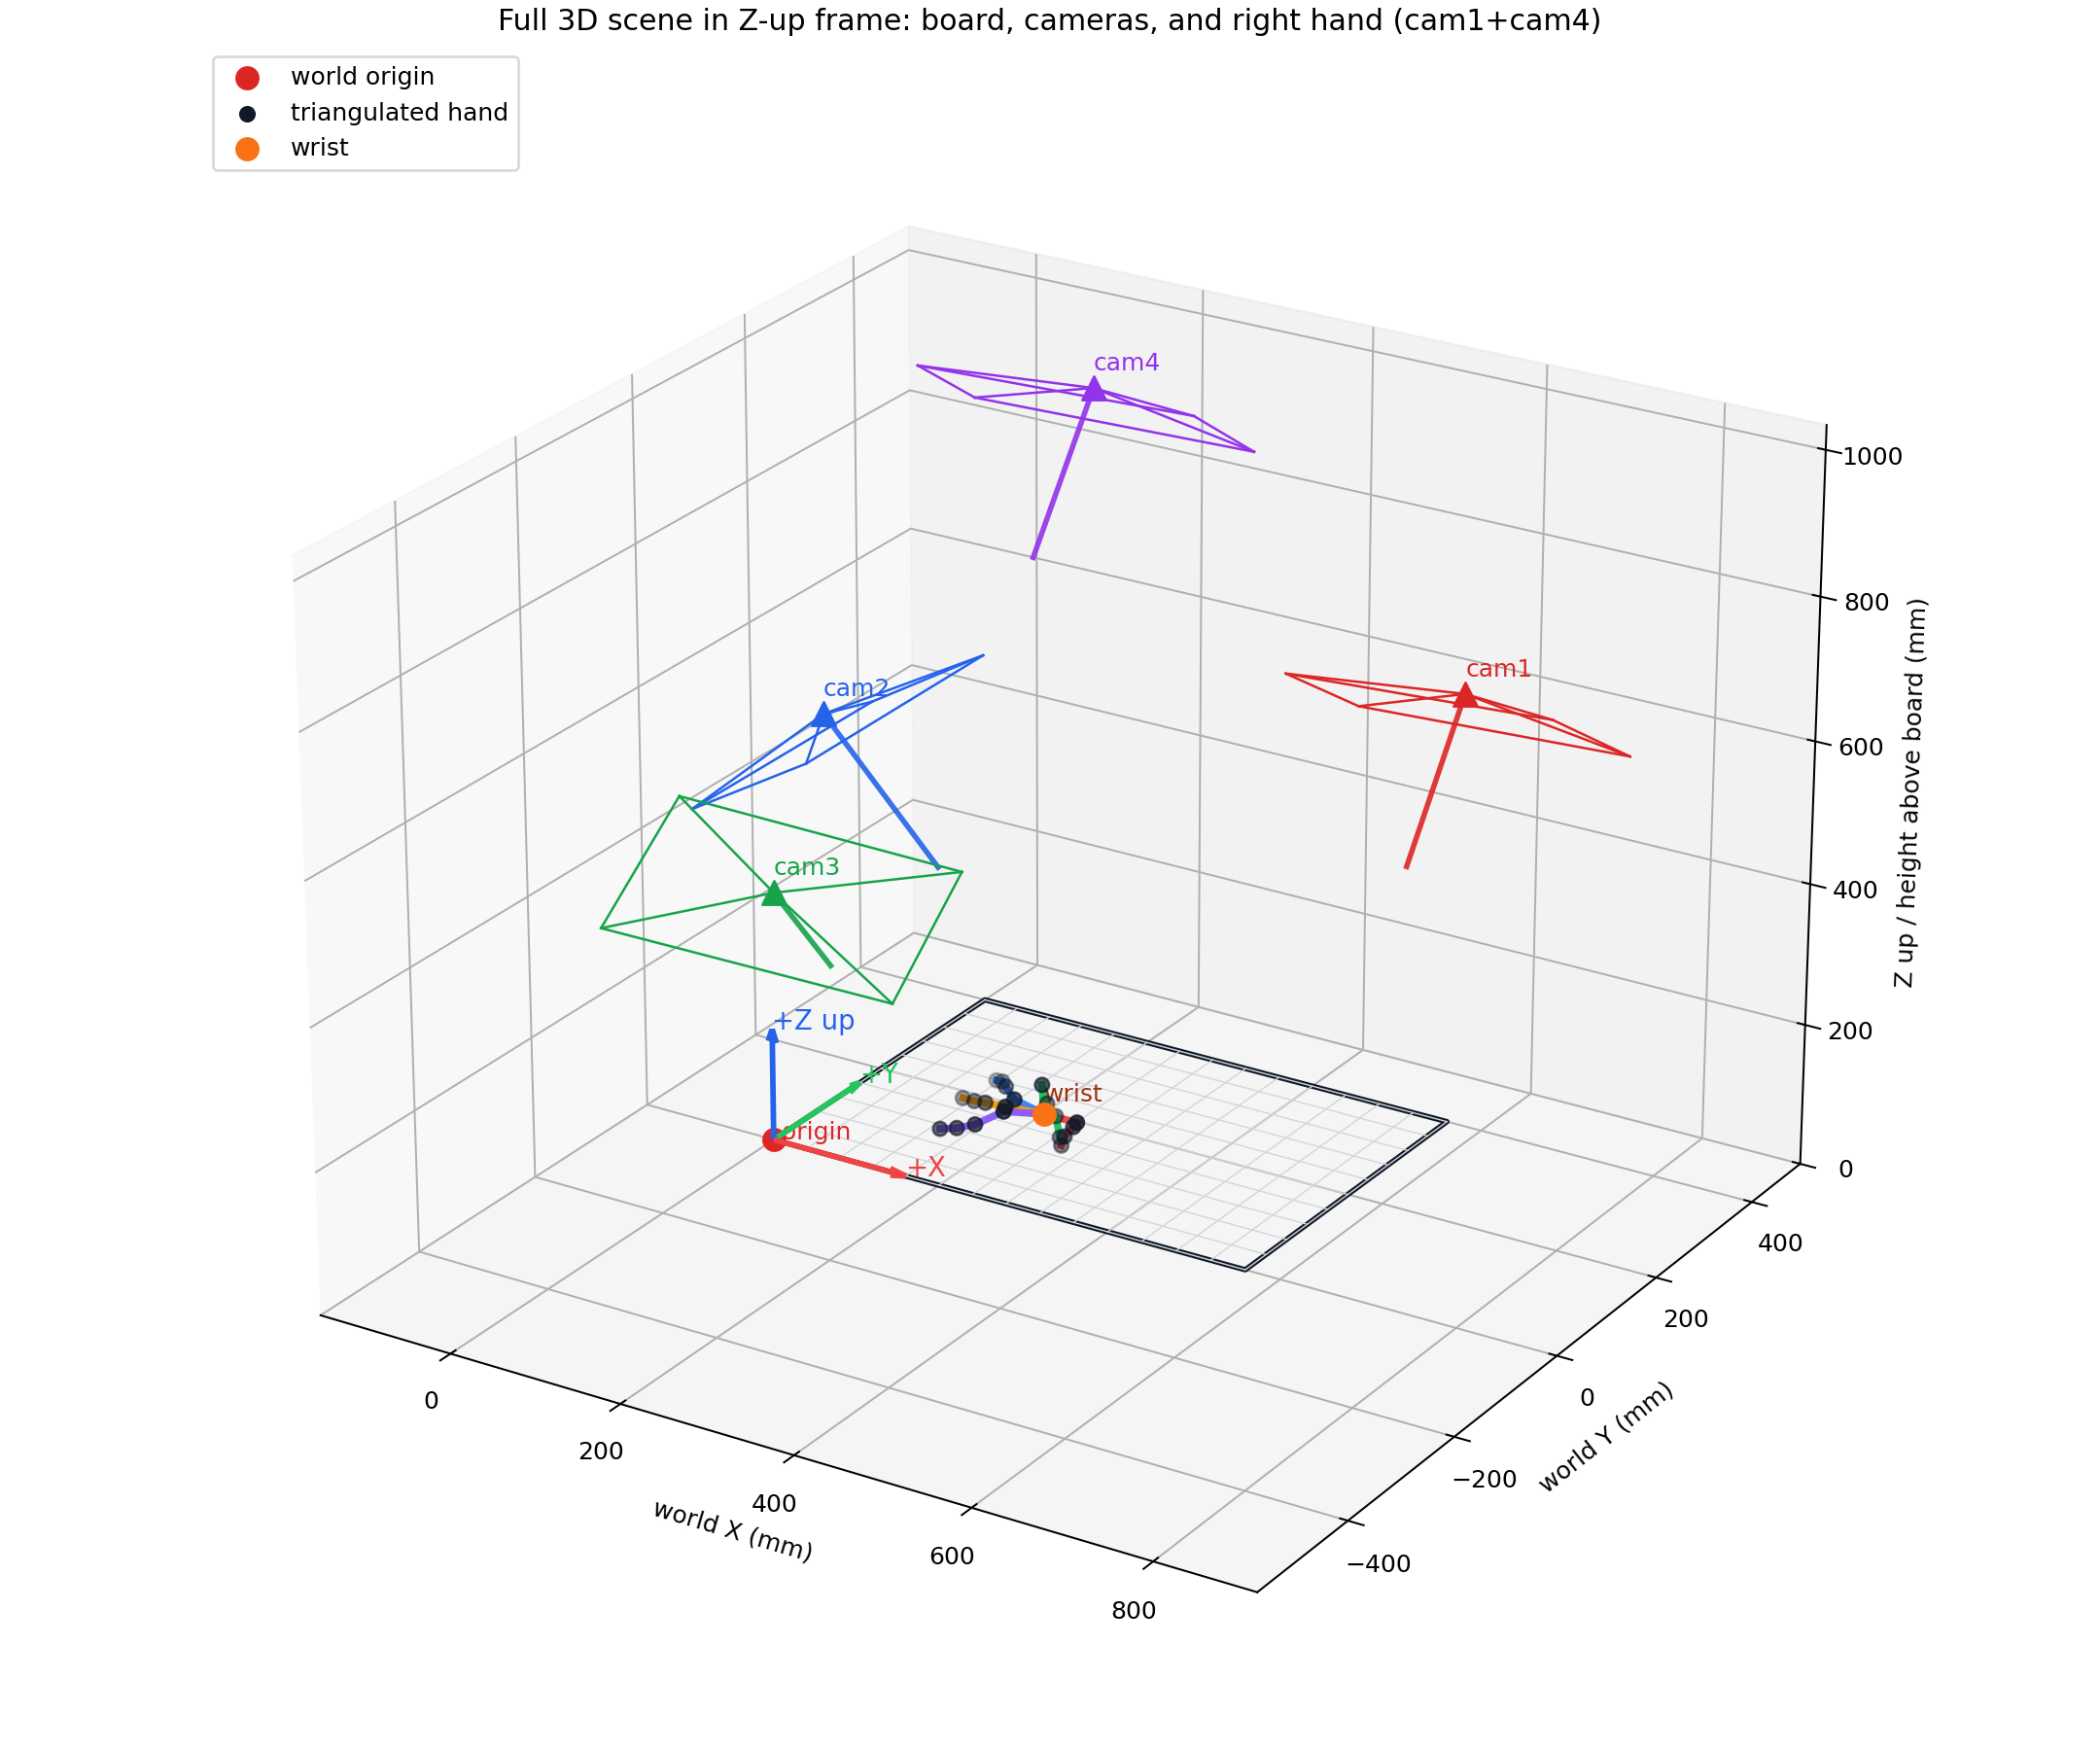
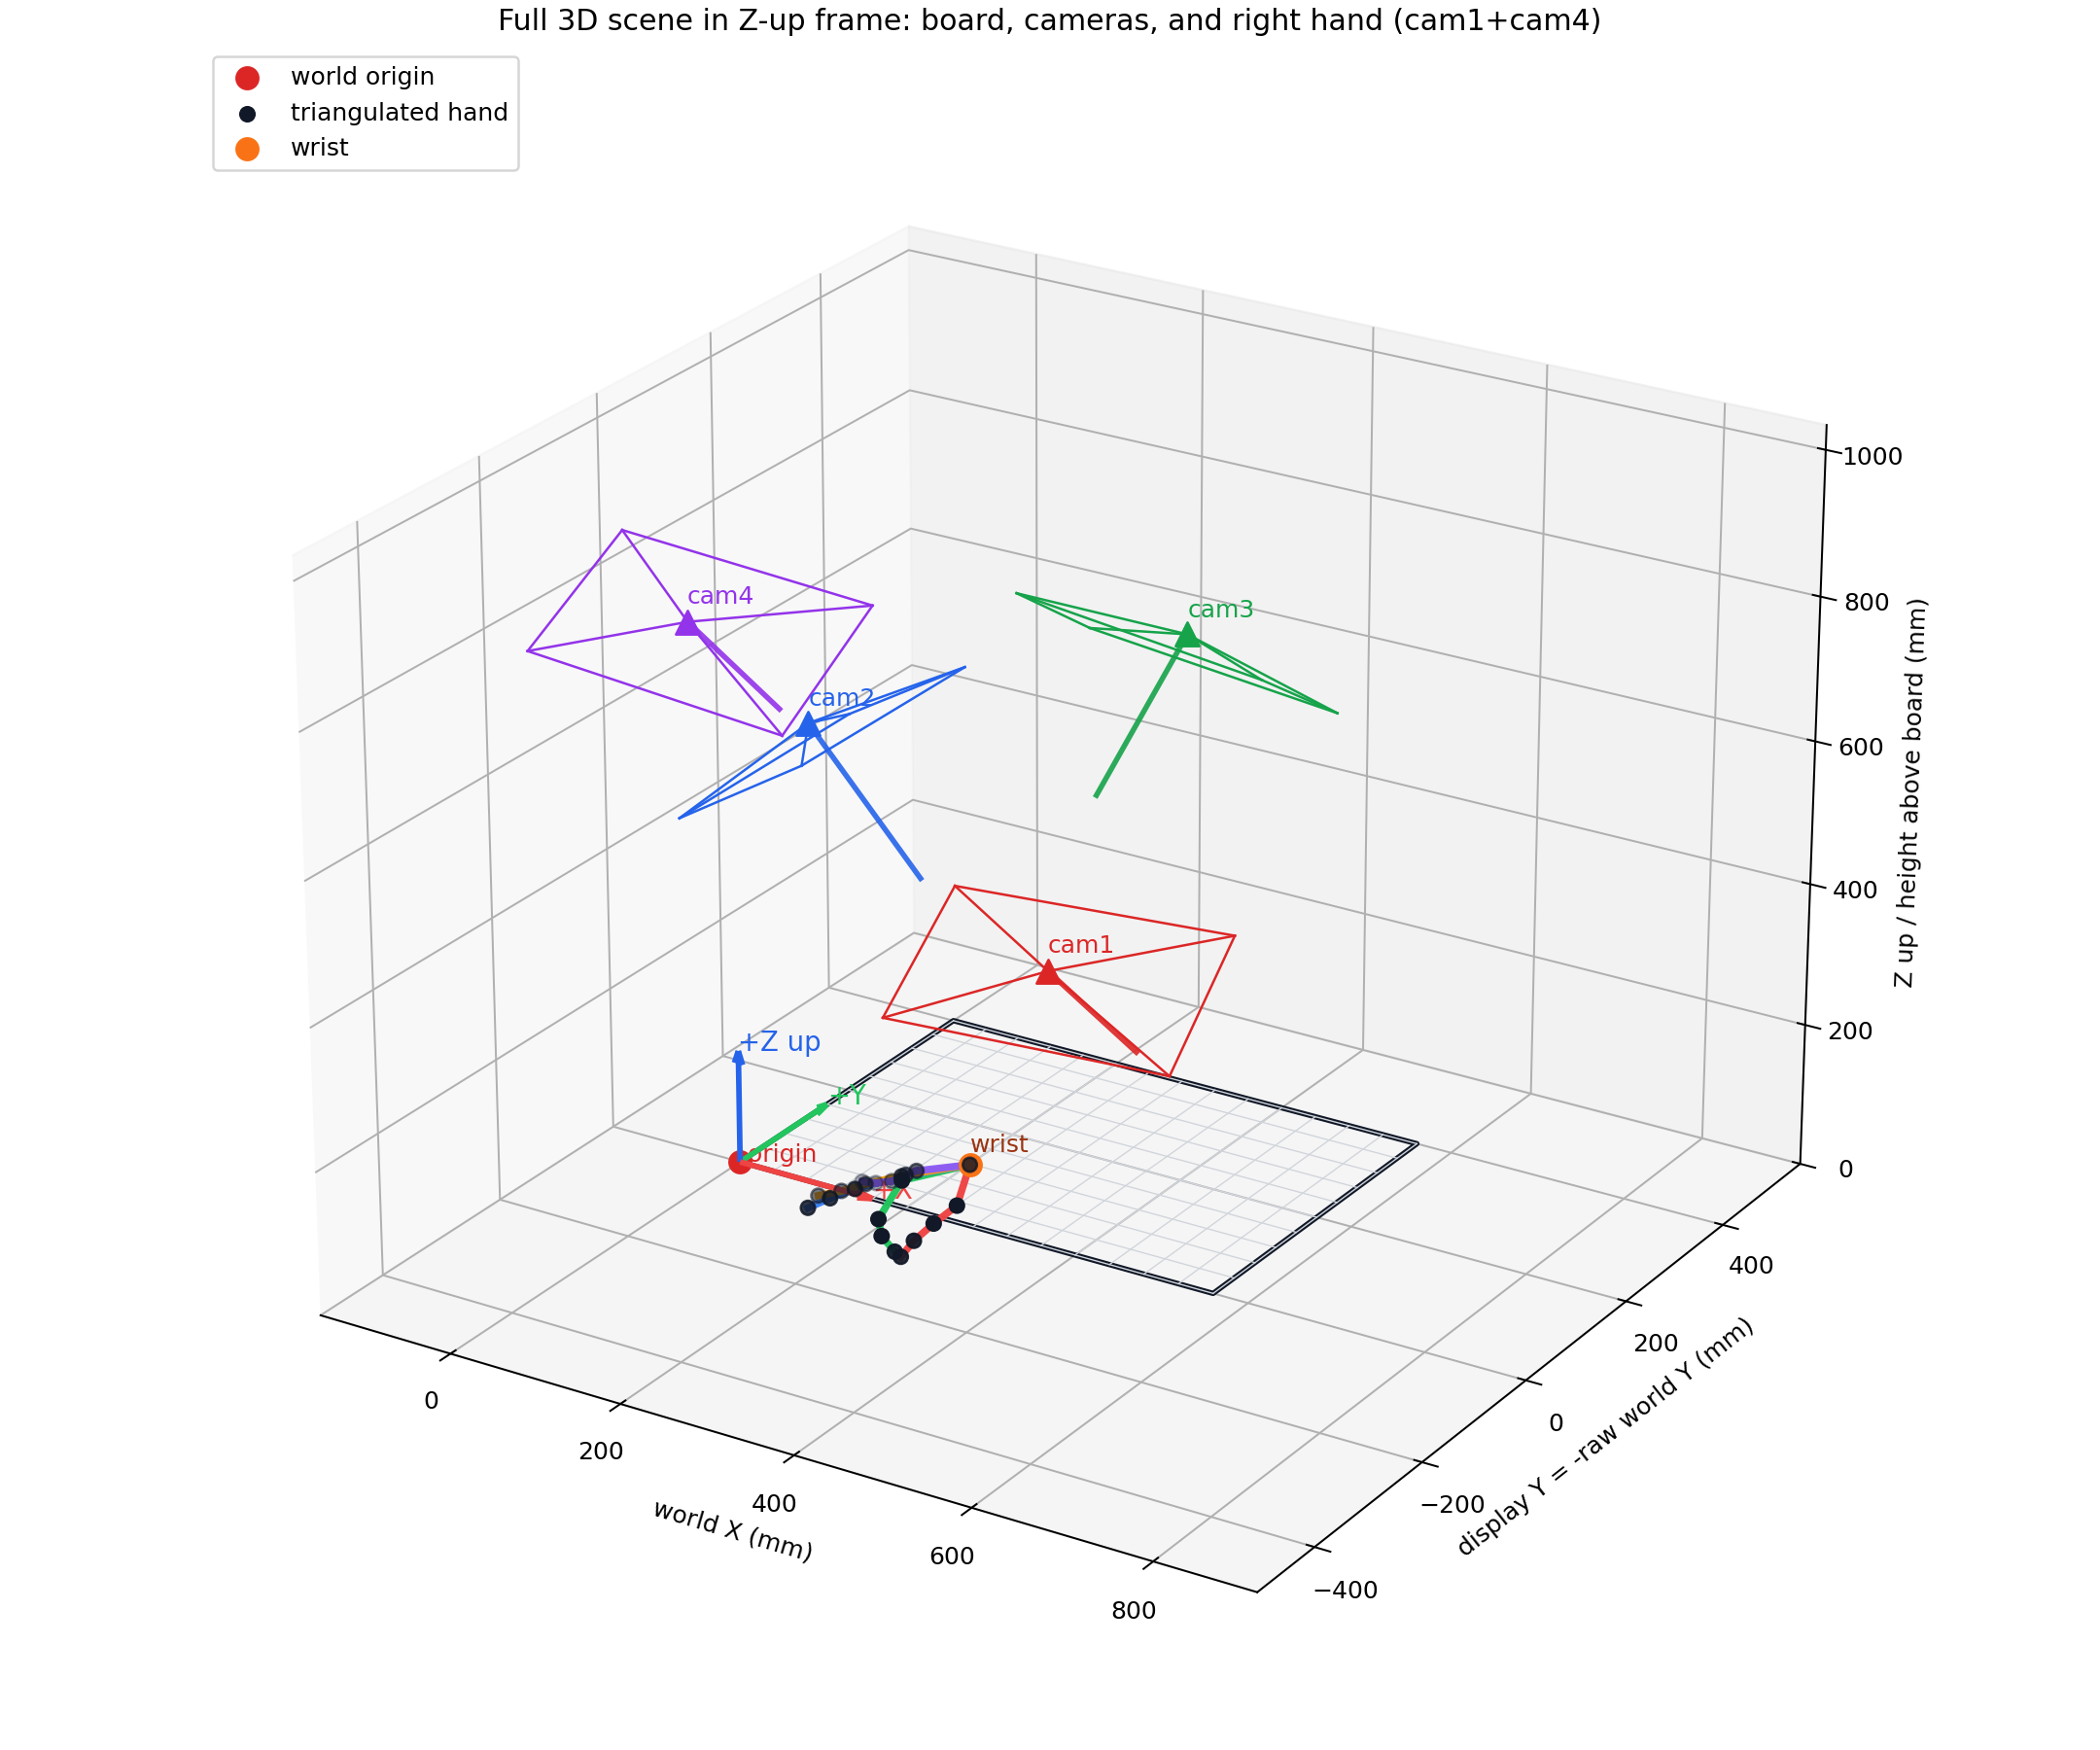
Fix v2 hand render handedness and add interactive view

diff --git a/get_GT_handpose/ego_exo_visualizations/v2/handpose_labeler/results/right_hand_session_129588_interactive_3d_handpose_cam1_cam4.html b/get_GT_handpose/ego_exo_visualizations/v2/handpose_labeler/results/right_hand_session_129588_interactive_3d_handpose_cam1_cam4.html
@@ -1,0 +1,7 @@
+<html>
+<head><meta charset="utf-8" /></head>
+<body>
+    <div>                        <script type="text/javascript">window.PlotlyConfig = {MathJaxConfig: 'local'};</script>
+        <script charset="utf-8" src="https://cdn.plot.ly/plotly-3.0.1.min.js"></script>                <div id="da35aae1-8420-4d84-b48f-a5b87742115a" class="plotly-graph-div" style="height:900px; width:1100px;"></div>            <script type="text/javascript">                window.PLOTLYENV=window.PLOTLYENV || {};                                if (document.getElementById("da35aae1-8420-4d84-b48f-a5b87742115a")) {                    Plotly.newPlot(                        "da35aae1-8420-4d84-b48f-a5b87742115a",                        [{"colorscale":[[0,"#e2e8f0"],[1,"#e2e8f0"]],"hoverinfo":"skip","name":"board plane","opacity":0.22,"showscale":false,"x":[[121.19595783471715,355.2213781802049],[121.19595783471715,355.2213781802049]],"y":[[-185.142943549738,-185.142943549738],[3.9478458955776645,3.9478458955776645]],"z":[[0,0],[0,0]],"type":"surface"},{"hoverinfo":"skip","line":{"color":"#ef4444","width":11},"mode":"lines","showlegend":false,"x":[300.94710695258016,313.2213781802049],"y":[-38.052154104422335,-81.13190953525444],"z":[115.60094707471461,84.72037399769849],"type":"scatter3d"},{"hoverinfo":"skip","line":{"color":"#94a3b8","width":5},"mode":"lines","opacity":0.18,"showlegend":false,"x":[300.94710695258016,313.2213781802049],"y":[-38.052154104422335,-81.13190953525444],"z":[1.0,1.0],"type":"scatter3d"},{"hoverinfo":"skip","line":{"color":"#ef4444","width":8},"mode":"lines","showlegend":false,"x":[313.2213781802049,297.51073444572216],"y":[-81.13190953525444,-99.29701683169559],"z":[84.72037399769849,63.78361243776665],"type":"scatter3d"},{"hoverinfo":"skip","line":{"color":"#94a3b8","width":5},"mode":"lines","opacity":0.18,"showlegend":false,"x":[313.2213781802049,297.51073444572216],"y":[-81.13190953525444,-99.29701683169559],"z":[1.0,1.0],"type":"scatter3d"},{"hoverinfo":"skip","line":{"color":"#ef4444","width":8},"mode":"lines","showlegend":false,"x":[297.51073444572216,280.74118641909666],"y":[-99.29701683169559,-109.54927521681418],"z":[63.78361243776665,39.25308029255003],"type":"scatter3d"},{"hoverinfo":"skip","line":{"color":"#94a3b8","width":5},"mode":"lines","opacity":0.18,"showlegend":false,"x":[297.51073444572216,280.74118641909666],"y":[-99.29701683169559,-109.54927521681418],"z":[1.0,1.0],"type":"scatter3d"},{"hoverinfo":"skip","line":{"color":"#ef4444","width":8},"mode":"lines","showlegend":false,"x":[280.74118641909666,271.08283453013644],"y":[-109.54927521681418,-118.6654131390931],"z":[39.25308029255003,18.176402890187983],"type":"scatter3d"},{"hoverinfo":"skip","line":{"color":"#94a3b8","width":5},"mode":"lines","opacity":0.18,"showlegend":false,"x":[280.74118641909666,271.08283453013644],"y":[-109.54927521681418,-118.6654131390931],"z":[1.0,1.0],"type":"scatter3d"},{"hoverinfo":"skip","line":{"color":"#22c55e","width":11},"mode":"lines","showlegend":false,"x":[300.94710695258016,260.4033519740082],"y":[-38.052154104422335,-99.24276384608757],"z":[115.60094707471461,112.36895491907715],"type":"scatter3d"},{"hoverinfo":"skip","line":{"color":"#94a3b8","width":5},"mode":"lines","opacity":0.18,"showlegend":false,"x":[300.94710695258016,260.4033519740082],"y":[-38.052154104422335,-99.24276384608757],"z":[1.0,1.0],"type":"scatter3d"},{"hoverinfo":"skip","line":{"color":"#22c55e","width":8},"mode":"lines","showlegend":false,"x":[260.4033519740082,249.70339148635526],"y":[-99.24276384608757,-125.72576204517513],"z":[112.36895491907715,68.19799565224298],"type":"scatter3d"},{"hoverinfo":"skip","line":{"color":"#94a3b8","width":5},"mode":"lines","opacity":0.18,"showlegend":false,"x":[260.4033519740082,249.70339148635526],"y":[-99.24276384608757,-125.72576204517513],"z":[1.0,1.0],"type":"scatter3d"},{"hoverinfo":"skip","line":{"color":"#22c55e","width":8},"mode":"lines","showlegend":false,"x":[249.70339148635526,256.8355189687907],"y":[-125.72576204517513,-131.0673534846652],"z":[68.19799565224298,49.439448661535266],"type":"scatter3d"},{"hoverinfo":"skip","line":{"color":"#94a3b8","width":5},"mode":"lines","opacity":0.18,"showlegend":false,"x":[249.70339148635526,256.8355189687907],"y":[-125.72576204517513,-131.0673534846652],"z":[1.0,1.0],"type":"scatter3d"},{"hoverinfo":"skip","line":{"color":"#22c55e","width":8},"mode":"lines","showlegend":false,"x":[256.8355189687907,266.7482477296426],"y":[-131.0673534846652,-122.82948345925182],"z":[49.439448661535266,26.197353890055997],"type":"scatter3d"},{"hoverinfo":"skip","line":{"color":"#94a3b8","width":5},"mode":"lines","opacity":0.18,"showlegend":false,"x":[256.8355189687907,266.7482477296426],"y":[-131.0673534846652,-122.82948345925182],"z":[1.0,1.0],"type":"scatter3d"},{"hoverinfo":"skip","line":{"color":"#3b82f6","width":11},"mode":"lines","showlegend":false,"x":[300.94710695258016,243.49171529307202],"y":[-38.052154104422335,-73.66265010175437],"z":[115.60094707471461,99.0864786297939],"type":"scatter3d"},{"hoverinfo":"skip","line":{"color":"#94a3b8","width":5},"mode":"lines","opacity":0.18,"showlegend":false,"x":[300.94710695258016,243.49171529307202],"y":[-38.052154104422335,-73.66265010175437],"z":[1.0,1.0],"type":"scatter3d"},{"hoverinfo":"skip","line":{"color":"#3b82f6","width":8},"mode":"lines","showlegend":false,"x":[243.49171529307202,211.08034152625717],"y":[-73.66265010175437,-108.72241432666938],"z":[99.0864786297939,88.99895542439282],"type":"scatter3d"},{"hoverinfo":"skip","line":{"color":"#94a3b8","width":5},"mode":"lines","opacity":0.18,"showlegend":false,"x":[243.49171529307202,211.08034152625717],"y":[-73.66265010175437,-108.72241432666938],"z":[1.0,1.0],"type":"scatter3d"},{"hoverinfo":"skip","line":{"color":"#3b82f6","width":8},"mode":"lines","showlegend":false,"x":[211.08034152625717,194.48051061058936],"y":[-108.72241432666938,-128.45386840711564],"z":[88.99895542439282,80.76018504330318],"type":"scatter3d"},{"hoverinfo":"skip","line":{"color":"#94a3b8","width":5},"mode":"lines","opacity":0.18,"showlegend":false,"x":[211.08034152625717,194.48051061058936],"y":[-108.72241432666938,-128.45386840711564],"z":[1.0,1.0],"type":"scatter3d"},{"hoverinfo":"skip","line":{"color":"#3b82f6","width":8},"mode":"lines","showlegend":false,"x":[194.48051061058936,177.86502948121267],"y":[-128.45386840711564,-143.142943549738],"z":[80.76018504330318,69.49270718688392],"type":"scatter3d"},{"hoverinfo":"skip","line":{"color":"#94a3b8","width":5},"mode":"lines","opacity":0.18,"showlegend":false,"x":[194.48051061058936,177.86502948121267],"y":[-128.45386840711564,-143.142943549738],"z":[1.0,1.0],"type":"scatter3d"},{"hoverinfo":"skip","line":{"color":"#f59e0b","width":11},"mode":"lines","showlegend":false,"x":[300.94710695258016,240.5771456898662],"y":[-38.052154104422335,-61.71693447464006],"z":[115.60094707471461,93.91471666663519],"type":"scatter3d"},{"hoverinfo":"skip","line":{"color":"#94a3b8","width":5},"mode":"lines","opacity":0.18,"showlegend":false,"x":[300.94710695258016,240.5771456898662],"y":[-38.052154104422335,-61.71693447464006],"z":[1.0,1.0],"type":"scatter3d"},{"hoverinfo":"skip","line":{"color":"#f59e0b","width":8},"mode":"lines","showlegend":false,"x":[240.5771456898662,204.71295310211144],"y":[-61.71693447464006,-80.08642525151306],"z":[93.91471666663519,78.44710917754217],"type":"scatter3d"},{"hoverinfo":"skip","line":{"color":"#94a3b8","width":5},"mode":"lines","opacity":0.18,"showlegend":false,"x":[240.5771456898662,204.71295310211144],"y":[-61.71693447464006,-80.08642525151306],"z":[1.0,1.0],"type":"scatter3d"},{"hoverinfo":"skip","line":{"color":"#f59e0b","width":8},"mode":"lines","showlegend":false,"x":[204.71295310211144,183.86016954127751],"y":[-80.08642525151306,-91.84281090980143],"z":[78.44710917754217,68.10447588610744],"type":"scatter3d"},{"hoverinfo":"skip","line":{"color":"#94a3b8","width":5},"mode":"lines","opacity":0.18,"showlegend":false,"x":[204.71295310211144,183.86016954127751],"y":[-80.08642525151306,-91.84281090980143],"z":[1.0,1.0],"type":"scatter3d"},{"hoverinfo":"skip","line":{"color":"#f59e0b","width":8},"mode":"lines","showlegend":false,"x":[183.86016954127751,163.19595783471715],"y":[-91.84281090980143,-102.47843330744826],"z":[68.10447588610744,60.2279348927584],"type":"scatter3d"},{"hoverinfo":"skip","line":{"color":"#94a3b8","width":5},"mode":"lines","opacity":0.18,"showlegend":false,"x":[183.86016954127751,163.19595783471715],"y":[-91.84281090980143,-102.47843330744826],"z":[1.0,1.0],"type":"scatter3d"},{"hoverinfo":"skip","line":{"color":"#8b5cf6","width":11},"mode":"lines","showlegend":false,"x":[300.94710695258016,245.65293696566258],"y":[-38.052154104422335,-50.000374664617006],"z":[115.60094707471461,94.89599520239433],"type":"scatter3d"},{"hoverinfo":"skip","line":{"color":"#94a3b8","width":5},"mode":"lines","opacity":0.18,"showlegend":false,"x":[300.94710695258016,245.65293696566258],"y":[-38.052154104422335,-50.000374664617006],"z":[1.0,1.0],"type":"scatter3d"},{"hoverinfo":"skip","line":{"color":"#8b5cf6","width":8},"mode":"lines","showlegend":false,"x":[245.65293696566258,213.81301152193296],"y":[-50.000374664617006,-46.37367315585217],"z":[94.89599520239433,67.81058660023483],"type":"scatter3d"},{"hoverinfo":"skip","line":{"color":"#94a3b8","width":5},"mode":"lines","opacity":0.18,"showlegend":false,"x":[245.65293696566258,213.81301152193296],"y":[-50.000374664617006,-46.37367315585217],"z":[1.0,1.0],"type":"scatter3d"},{"hoverinfo":"skip","line":{"color":"#8b5cf6","width":8},"mode":"lines","showlegend":false,"x":[213.81301152193296,193.2939932417069],"y":[-46.37367315585217,-44.120259936178236],"z":[67.81058660023483,57.095583124024195],"type":"scatter3d"},{"hoverinfo":"skip","line":{"color":"#94a3b8","width":5},"mode":"lines","opacity":0.18,"showlegend":false,"x":[213.81301152193296,193.2939932417069],"y":[-46.37367315585217,-44.120259936178236],"z":[1.0,1.0],"type":"scatter3d"},{"hoverinfo":"skip","line":{"color":"#8b5cf6","width":8},"mode":"lines","showlegend":false,"x":[193.2939932417069,175.11330597590063],"y":[-44.120259936178236,-41.15491321139711],"z":[57.095583124024195,51.530347164900085],"type":"scatter3d"},{"hoverinfo":"skip","line":{"color":"#94a3b8","width":5},"mode":"lines","opacity":0.18,"showlegend":false,"x":[193.2939932417069,175.11330597590063],"y":[-44.120259936178236,-41.15491321139711],"z":[1.0,1.0],"type":"scatter3d"},{"hoverinfo":"text","hovertext":["wrist","thumb_cmc","thumb_mcp","thumb_ip","thumb_tip","index_mcp","index_pip","index_dip","index_tip","middle_mcp","middle_pip","middle_dip","middle_tip","ring_mcp","ring_pip","ring_dip","ring_tip","pinky_mcp","pinky_pip","pinky_dip","pinky_tip"],"marker":{"color":["#f97316","#1f2937","#1f2937","#1f2937","#111827","#1f2937","#1f2937","#1f2937","#111827","#1f2937","#1f2937","#1f2937","#111827","#1f2937","#1f2937","#1f2937","#111827","#1f2937","#1f2937","#1f2937","#111827"],"line":{"color":"#0f172a","width":1},"size":[9,6,6,6,7,6,6,6,7,6,6,6,7,6,6,6,7,6,6,6,7]},"mode":"markers+text","name":"joints","text":["0","1","2","3","4","5","6","7","8","9","10","11","12","13","14","15","16","17","18","19","20"],"textposition":"top center","x":{"dtype":"f8","bdata":"VrKeWSfPckBzwNjDipNzQBTV4fcrmHJAJ2RK5tuLcUCm3kxKU\u002fFwQEcSMyF0RnBAyMXcLoI2b0BNYiNJXg1wQPGBnNL4q3BA\u002f9W1IbxvbkAheWQokmJqQJi7yVdgT2hATHxOUq47ZkAW4Dz6dxJuQNAkBoPQlmlArBlGgob7ZkAqcF1JRWZkQNk7ENzktG5AJT+9MAS6akAJzINkaCloQOid2jOg42VA"},"y":{"dtype":"f8","bdata":"TWxW\u002fKwGQ8Cy\u002fLA0cUhUwJ+f4lIC01jAGC49UydjW8Dzrv0glqpdwDrmXnGJz1jAIy2m4nJuX8AUvX7CJ2JgwM+DykEWtV7AeO7422hqUsA9zUwJPC5bwPqnCReGDmDAkOlZ\u002fpLkYcAd+kSCxNtOwAUzx\u002f2HBVTAyZMrnfD1VsCsM7ymnp5ZwHUj6kYMAEnAm+OfhdQvR8DJc3atZA9GwJ9VNDLUk0TA"},"z":{"dtype":"f8","bdata":"rCG46nXmXEA+QIqbGi5VQCp5kGlN5E9A2+Fd72SgQ0D7RmS9KC0yQJ\u002fIF\u002fWcF1xAkMj09asMUUBQyI7aP7hIQGWH18iFMjpAIrGp3YjFWEB0e7vi7j9WQFD5Kt+mMFRA64q5g4hfUUB5E8a3inpXQD\u002fSz2+dnFNAVYOgu68GUUDeAXf4LB1OQAXqQvxXuVdAZ6WepuDzUEDh3VsRPIxMQNdieGriw0lA"},"type":"scatter3d"},{"hoverinfo":"skip","line":{"color":"#ef4444","width":7},"mode":"lines+text","showlegend":false,"text":["","+X"],"textposition":"top center","x":[121.19595783471715,203.70993902473543],"y":[-185.142943549738,-185.142943549738],"z":[0.0,0.0],"type":"scatter3d"},{"hoverinfo":"skip","line":{"color":"#22c55e","width":7},"mode":"lines+text","showlegend":false,"text":["","+Y display"],"textposition":"top center","x":[121.19595783471715,121.19595783471715],"y":[-185.142943549738,-102.62896235971972],"z":[0.0,0.0],"type":"scatter3d"},{"hoverinfo":"skip","line":{"color":"#2563eb","width":7},"mode":"lines+text","showlegend":false,"text":["","+Z up"],"textposition":"top center","x":[121.19595783471715,121.19595783471715],"y":[-185.142943549738,-185.142943549738],"z":[0.0,82.51398119001827],"type":"scatter3d"}],                        {"template":{"data":{"histogram2dcontour":[{"type":"histogram2dcontour","colorbar":{"outlinewidth":0,"ticks":""},"colorscale":[[0.0,"#0d0887"],[0.1111111111111111,"#46039f"],[0.2222222222222222,"#7201a8"],[0.3333333333333333,"#9c179e"],[0.4444444444444444,"#bd3786"],[0.5555555555555556,"#d8576b"],[0.6666666666666666,"#ed7953"],[0.7777777777777778,"#fb9f3a"],[0.8888888888888888,"#fdca26"],[1.0,"#f0f921"]]}],"choropleth":[{"type":"choropleth","colorbar":{"outlinewidth":0,"ticks":""}}],"histogram2d":[{"type":"histogram2d","colorbar":{"outlinewidth":0,"ticks":""},"colorscale":[[0.0,"#0d0887"],[0.1111111111111111,"#46039f"],[0.2222222222222222,"#7201a8"],[0.3333333333333333,"#9c179e"],[0.4444444444444444,"#bd3786"],[0.5555555555555556,"#d8576b"],[0.6666666666666666,"#ed7953"],[0.7777777777777778,"#fb9f3a"],[0.8888888888888888,"#fdca26"],[1.0,"#f0f921"]]}],"heatmap":[{"type":"heatmap","colorbar":{"outlinewidth":0,"ticks":""},"colorscale":[[0.0,"#0d0887"],[0.1111111111111111,"#46039f"],[0.2222222222222222,"#7201a8"],[0.3333333333333333,"#9c179e"],[0.4444444444444444,"#bd3786"],[0.5555555555555556,"#d8576b"],[0.6666666666666666,"#ed7953"],[0.7777777777777778,"#fb9f3a"],[0.8888888888888888,"#fdca26"],[1.0,"#f0f921"]]}],"contourcarpet":[{"type":"contourcarpet","colorbar":{"outlinewidth":0,"ticks":""}}],"contour":[{"type":"contour","colorbar":{"outlinewidth":0,"ticks":""},"colorscale":[[0.0,"#0d0887"],[0.1111111111111111,"#46039f"],[0.2222222222222222,"#7201a8"],[0.3333333333333333,"#9c179e"],[0.4444444444444444,"#bd3786"],[0.5555555555555556,"#d8576b"],[0.6666666666666666,"#ed7953"],[0.7777777777777778,"#fb9f3a"],[0.8888888888888888,"#fdca26"],[1.0,"#f0f921"]]}],"surface":[{"type":"surface","colorbar":{"outlinewidth":0,"ticks":""},"colorscale":[[0.0,"#0d0887"],[0.1111111111111111,"#46039f"],[0.2222222222222222,"#7201a8"],[0.3333333333333333,"#9c179e"],[0.4444444444444444,"#bd3786"],[0.5555555555555556,"#d8576b"],[0.6666666666666666,"#ed7953"],[0.7777777777777778,"#fb9f3a"],[0.8888888888888888,"#fdca26"],[1.0,"#f0f921"]]}],"mesh3d":[{"type":"mesh3d","colorbar":{"outlinewidth":0,"ticks":""}}],"scatter":[{"fillpattern":{"fillmode":"overlay","size":10,"solidity":0.2},"type":"scatter"}],"parcoords":[{"type":"parcoords","line":{"colorbar":{"outlinewidth":0,"ticks":""}}}],"scatterpolargl":[{"type":"scatterpolargl","marker":{"colorbar":{"outlinewidth":0,"ticks":""}}}],"bar":[{"error_x":{"color":"#2a3f5f"},"error_y":{"color":"#2a3f5f"},"marker":{"line":{"color":"#E5ECF6","width":0.5},"pattern":{"fillmode":"overlay","size":10,"solidity":0.2}},"type":"bar"}],"scattergeo":[{"type":"scattergeo","marker":{"colorbar":{"outlinewidth":0,"ticks":""}}}],"scatterpolar":[{"type":"scatterpolar","marker":{"colorbar":{"outlinewidth":0,"ticks":""}}}],"histogram":[{"marker":{"pattern":{"fillmode":"overlay","size":10,"solidity":0.2}},"type":"histogram"}],"scattergl":[{"type":"scattergl","marker":{"colorbar":{"outlinewidth":0,"ticks":""}}}],"scatter3d":[{"type":"scatter3d","line":{"colorbar":{"outlinewidth":0,"ticks":""}},"marker":{"colorbar":{"outlinewidth":0,"ticks":""}}}],"scattermap":[{"type":"scattermap","marker":{"colorbar":{"outlinewidth":0,"ticks":""}}}],"scattermapbox":[{"type":"scattermapbox","marker":{"colorbar":{"outlinewidth":0,"ticks":""}}}],"scatterternary":[{"type":"scatterternary","marker":{"colorbar":{"outlinewidth":0,"ticks":""}}}],"scattercarpet":[{"type":"scattercarpet","marker":{"colorbar":{"outlinewidth":0,"ticks":""}}}],"carpet":[{"aaxis":{"endlinecolor":"#2a3f5f","gridcolor":"white","linecolor":"white","minorgridcolor":"white","startlinecolor":"#2a3f5f"},"baxis":{"endlinecolor":"#2a3f5f","gridcolor":"white","linecolor":"white","minorgridcolor":"white","startlinecolor":"#2a3f5f"},"type":"carpet"}],"table":[{"cells":{"fill":{"color":"#EBF0F8"},"line":{"color":"white"}},"header":{"fill":{"color":"#C8D4E3"},"line":{"color":"white"}},"type":"table"}],"barpolar":[{"marker":{"line":{"color":"#E5ECF6","width":0.5},"pattern":{"fillmode":"overlay","size":10,"solidity":0.2}},"type":"barpolar"}],"pie":[{"automargin":true,"type":"pie"}]},"layout":{"autotypenumbers":"strict","colorway":["#636efa","#EF553B","#00cc96","#ab63fa","#FFA15A","#19d3f3","#FF6692","#B6E880","#FF97FF","#FECB52"],"font":{"color":"#2a3f5f"},"hovermode":"closest","hoverlabel":{"align":"left"},"paper_bgcolor":"white","plot_bgcolor":"#E5ECF6","polar":{"bgcolor":"#E5ECF6","angularaxis":{"gridcolor":"white","linecolor":"white","ticks":""},"radialaxis":{"gridcolor":"white","linecolor":"white","ticks":""}},"ternary":{"bgcolor":"#E5ECF6","aaxis":{"gridcolor":"white","linecolor":"white","ticks":""},"baxis":{"gridcolor":"white","linecolor":"white","ticks":""},"caxis":{"gridcolor":"white","linecolor":"white","ticks":""}},"coloraxis":{"colorbar":{"outlinewidth":0,"ticks":""}},"colorscale":{"sequential":[[0.0,"#0d0887"],[0.1111111111111111,"#46039f"],[0.2222222222222222,"#7201a8"],[0.3333333333333333,"#9c179e"],[0.4444444444444444,"#bd3786"],[0.5555555555555556,"#d8576b"],[0.6666666666666666,"#ed7953"],[0.7777777777777778,"#fb9f3a"],[0.8888888888888888,"#fdca26"],[1.0,"#f0f921"]],"sequentialminus":[[0.0,"#0d0887"],[0.1111111111111111,"#46039f"],[0.2222222222222222,"#7201a8"],[0.3333333333333333,"#9c179e"],[0.4444444444444444,"#bd3786"],[0.5555555555555556,"#d8576b"],[0.6666666666666666,"#ed7953"],[0.7777777777777778,"#fb9f3a"],[0.8888888888888888,"#fdca26"],[1.0,"#f0f921"]],"diverging":[[0,"#8e0152"],[0.1,"#c51b7d"],[0.2,"#de77ae"],[0.3,"#f1b6da"],[0.4,"#fde0ef"],[0.5,"#f7f7f7"],[0.6,"#e6f5d0"],[0.7,"#b8e186"],[0.8,"#7fbc41"],[0.9,"#4d9221"],[1,"#276419"]]},"xaxis":{"gridcolor":"white","linecolor":"white","ticks":"","title":{"standoff":15},"zerolinecolor":"white","automargin":true,"zerolinewidth":2},"yaxis":{"gridcolor":"white","linecolor":"white","ticks":"","title":{"standoff":15},"zerolinecolor":"white","automargin":true,"zerolinewidth":2},"scene":{"xaxis":{"backgroundcolor":"#E5ECF6","gridcolor":"white","linecolor":"white","showbackground":true,"ticks":"","zerolinecolor":"white","gridwidth":2},"yaxis":{"backgroundcolor":"#E5ECF6","gridcolor":"white","linecolor":"white","showbackground":true,"ticks":"","zerolinecolor":"white","gridwidth":2},"zaxis":{"backgroundcolor":"#E5ECF6","gridcolor":"white","linecolor":"white","showbackground":true,"ticks":"","zerolinecolor":"white","gridwidth":2}},"shapedefaults":{"line":{"color":"#2a3f5f"}},"annotationdefaults":{"arrowcolor":"#2a3f5f","arrowhead":0,"arrowwidth":1},"geo":{"bgcolor":"white","landcolor":"#E5ECF6","subunitcolor":"white","showland":true,"showlakes":true,"lakecolor":"white"},"title":{"x":0.05},"mapbox":{"style":"light"}}},"margin":{"l":0,"r":0,"b":0,"t":58},"scene":{"xaxis":{"title":{"text":"X = raw world X (mm)"},"backgroundcolor":"#f8fafc"},"yaxis":{"title":{"text":"Y = -raw world Y (mm)"},"backgroundcolor":"#f8fafc"},"zaxis":{"title":{"text":"Z up = -raw world Z (mm)"},"backgroundcolor":"#f8fafc"},"camera":{"eye":{"x":1.35,"y":-1.55,"z":1.05},"center":{"x":0,"y":0,"z":0},"up":{"x":0,"y":0,"z":1}},"aspectmode":"data"},"title":{"text":"Interactive right-hand 3D pose (cam1+cam4)"},"width":1100,"height":900,"paper_bgcolor":"#f8fafc","updatemenus":[{"buttons":[{"args":[{"scene.camera":{"eye":{"x":1.35,"y":-1.55,"z":1.05},"center":{"x":0,"y":0,"z":0},"up":{"x":0,"y":0,"z":1}}}],"label":"Iso","method":"relayout"},{"args":[{"scene.camera":{"eye":{"x":0.0,"y":0.0,"z":2.25},"center":{"x":0,"y":0,"z":0},"up":{"x":0,"y":0,"z":1}}}],"label":"Top","method":"relayout"},{"args":[{"scene.camera":{"eye":{"x":0.0,"y":-2.25,"z":0.35},"center":{"x":0,"y":0,"z":0},"up":{"x":0,"y":0,"z":1}}}],"label":"Front","method":"relayout"},{"args":[{"scene.camera":{"eye":{"x":0.0,"y":2.25,"z":0.35},"center":{"x":0,"y":0,"z":0},"up":{"x":0,"y":0,"z":1}}}],"label":"Back","method":"relayout"},{"args":[{"scene.camera":{"eye":{"x":-2.25,"y":0.0,"z":0.35},"center":{"x":0,"y":0,"z":0},"up":{"x":0,"y":0,"z":1}}}],"label":"Left","method":"relayout"},{"args":[{"scene.camera":{"eye":{"x":2.25,"y":0.0,"z":0.35},"center":{"x":0,"y":0,"z":0},"up":{"x":0,"y":0,"z":1}}}],"label":"Right","method":"relayout"}],"direction":"right","type":"buttons","x":0.02,"y":1.02}],"annotations":[{"align":"left","font":{"color":"#475569","size":12},"showarrow":false,"text":"Handedness-preserving display frame: [X, Y, Z] = [raw_X, -raw_Y, -raw_Z]. Drag to rotate.","x":0.01,"xref":"paper","y":0.01,"yref":"paper"}]},                        {"responsive": true}                    )                };            </script>        </div>
+</body>
+</html>

diff --git a/get_GT_handpose/visualize_v2_handpose_results.py b/get_GT_handpose/visualize_v2_handpose_results.py
@@ -86,8 +86,8 @@ def set_equal_3d_axes(ax: plt.Axes, points: np.ndarray, pad_mm: float = 12.0) ->
 
 
 def world_to_z_up(xyz: np.ndarray) -> np.ndarray:
-    """Convert raw ChArUco-world xyz to a display frame where +Z is up."""
-    return np.array([xyz[0], xyz[1], -xyz[2]], dtype=float)
+    """Convert raw ChArUco-world xyz to a handedness-preserving +Z-up display frame."""
+    return np.array([xyz[0], -xyz[1], -xyz[2]], dtype=float)
 
 
 def load_calibration_report(labels: dict, report_path: Path | None) -> dict:
@@ -226,7 +226,7 @@ def save_3d_handpose(
     ax.scatter([pts[0, 0]], [pts[0, 1]], [pts[0, 2]], s=80, color="#dc2626", label="wrist")
     ax.set_title(f"Right hand 3D triangulated pose ({combo})")
     ax.set_xlabel("world X (mm)")
-    ax.set_ylabel("world Y (mm)")
+    ax.set_ylabel("display Y = -raw world Y (mm)")
     ax.set_zlabel("height above board (mm)")
     set_equal_3d_axes(ax, np.vstack([pts, [[min_x, min_y, 0], [max_x, max_y, 0]]]))
     ax.view_init(elev=27, azim=-55)
@@ -371,6 +371,177 @@ def save_clean_handpose_render(
     crop_render_to_content(path)
 
 
+def save_interactive_handpose_html(
+    path: Path,
+    tri_points: dict[str, np.ndarray],
+    keypoint_names: list[str],
+    edges: list[list[int]],
+    combo: str,
+) -> None:
+    import plotly.graph_objects as go
+
+    display = world_to_display(tri_points)
+    pts = np.stack([display[name] for name in keypoint_names])
+    min_xyz = pts.min(axis=0)
+    max_xyz = pts.max(axis=0)
+    center = (min_xyz + max_xyz) / 2.0
+    span = float((max_xyz - min_xyz).max())
+    plane_pad = 42.0
+    min_x, min_y = pts[:, :2].min(axis=0) - plane_pad
+    max_x, max_y = pts[:, :2].max(axis=0) + plane_pad
+
+    fig = go.Figure()
+    fig.add_trace(
+        go.Surface(
+            x=[[min_x, max_x], [min_x, max_x]],
+            y=[[min_y, min_y], [max_y, max_y]],
+            z=[[0, 0], [0, 0]],
+            opacity=0.22,
+            showscale=False,
+            colorscale=[[0, "#e2e8f0"], [1, "#e2e8f0"]],
+            hoverinfo="skip",
+            name="board plane",
+        )
+    )
+
+    for a, b in edges:
+        start = keypoint_names[a]
+        end = keypoint_names[b]
+        pa = display[start]
+        pb = display[end]
+        color = edge_color(a, b, keypoint_names)
+        fig.add_trace(
+            go.Scatter3d(
+                x=[pa[0], pb[0]],
+                y=[pa[1], pb[1]],
+                z=[pa[2], pb[2]],
+                mode="lines",
+                line={"color": color, "width": 11 if a == 0 else 8},
+                hoverinfo="skip",
+                showlegend=False,
+            )
+        )
+        fig.add_trace(
+            go.Scatter3d(
+                x=[pa[0], pb[0]],
+                y=[pa[1], pb[1]],
+                z=[1.0, 1.0],
+                mode="lines",
+                line={"color": "#94a3b8", "width": 5},
+                opacity=0.18,
+                hoverinfo="skip",
+                showlegend=False,
+            )
+        )
+
+    marker_colors = []
+    marker_sizes = []
+    for i, _ in enumerate(keypoint_names):
+        if i == 0:
+            marker_colors.append("#f97316")
+            marker_sizes.append(9)
+        elif i in (4, 8, 12, 16, 20):
+            marker_colors.append("#111827")
+            marker_sizes.append(7)
+        else:
+            marker_colors.append("#1f2937")
+            marker_sizes.append(6)
+    fig.add_trace(
+        go.Scatter3d(
+            x=pts[:, 0],
+            y=pts[:, 1],
+            z=pts[:, 2],
+            mode="markers+text",
+            marker={"size": marker_sizes, "color": marker_colors, "line": {"color": "#0f172a", "width": 1}},
+            text=[str(i) for i in range(len(keypoint_names))],
+            textposition="top center",
+            hovertext=keypoint_names,
+            hoverinfo="text",
+            name="joints",
+        )
+    )
+
+    axis_len = max(70.0, span * 0.55)
+    origin = np.array([min_x, min_y, 0.0])
+    axes = [
+        ("+X", [axis_len, 0, 0], "#ef4444"),
+        ("+Y display", [0, axis_len, 0], "#22c55e"),
+        ("+Z up", [0, 0, axis_len], "#2563eb"),
+    ]
+    for label, vec, color in axes:
+        end = origin + np.array(vec)
+        fig.add_trace(
+            go.Scatter3d(
+                x=[origin[0], end[0]],
+                y=[origin[1], end[1]],
+                z=[origin[2], end[2]],
+                mode="lines+text",
+                line={"color": color, "width": 7},
+                text=["", label],
+                textposition="top center",
+                hoverinfo="skip",
+                showlegend=False,
+            )
+        )
+
+    def camera(eye: dict[str, float]) -> dict:
+        return {"eye": eye, "center": {"x": 0, "y": 0, "z": 0}, "up": {"x": 0, "y": 0, "z": 1}}
+
+    cameras = {
+        "Iso": camera({"x": 1.35, "y": -1.55, "z": 1.05}),
+        "Top": camera({"x": 0.0, "y": 0.0, "z": 2.25}),
+        "Front": camera({"x": 0.0, "y": -2.25, "z": 0.35}),
+        "Back": camera({"x": 0.0, "y": 2.25, "z": 0.35}),
+        "Left": camera({"x": -2.25, "y": 0.0, "z": 0.35}),
+        "Right": camera({"x": 2.25, "y": 0.0, "z": 0.35}),
+    }
+    buttons = [
+        {
+            "label": name,
+            "method": "relayout",
+            "args": [{"scene.camera": cam}],
+        }
+        for name, cam in cameras.items()
+    ]
+
+    fig.update_layout(
+        title=f"Interactive right-hand 3D pose ({combo})",
+        width=1100,
+        height=900,
+        margin={"l": 0, "r": 0, "b": 0, "t": 58},
+        paper_bgcolor="#f8fafc",
+        scene={
+            "xaxis": {"title": "X = raw world X (mm)", "backgroundcolor": "#f8fafc"},
+            "yaxis": {"title": "Y = -raw world Y (mm)", "backgroundcolor": "#f8fafc"},
+            "zaxis": {"title": "Z up = -raw world Z (mm)", "backgroundcolor": "#f8fafc"},
+            "aspectmode": "data",
+            "camera": cameras["Iso"],
+        },
+        updatemenus=[
+            {
+                "type": "buttons",
+                "direction": "right",
+                "x": 0.02,
+                "y": 1.02,
+                "buttons": buttons,
+            }
+        ],
+        annotations=[
+            {
+                "text": "Handedness-preserving display frame: [X, Y, Z] = [raw_X, -raw_Y, -raw_Z]. Drag to rotate.",
+                "xref": "paper",
+                "yref": "paper",
+                "x": 0.01,
+                "y": 0.01,
+                "showarrow": False,
+                "align": "left",
+                "font": {"size": 12, "color": "#475569"},
+            }
+        ],
+    )
+    fig.write_html(str(path), include_plotlyjs="cdn", full_html=True)
+
+
 def save_full_3d_scene(
     path: Path,
     tri_points: dict[str, np.ndarray],
@@ -483,14 +654,14 @@ def save_full_3d_scene(
     all_points = np.vstack(scene_points)
     set_equal_3d_axes(ax, all_points, pad_mm=35.0)
     ax.set_xlabel("world X (mm)")
-    ax.set_ylabel("world Y (mm)")
+    ax.set_ylabel("display Y = -raw world Y (mm)")
     ax.set_zlabel("Z up / height above board (mm)")
     ax.view_init(elev=24, azim=-58)
     ax.legend(loc="upper left")
     fig.savefig(path, dpi=180)
     plt.close(fig)
     return {
-        "coordinate_frame": "Z-up display frame: [X, Y, Z_up] = [raw_world_X, raw_world_Y, -raw_world_Z]",
+        "coordinate_frame": "Handedness-preserving Z-up display frame: [X, Y, Z_up] = [raw_world_X, -raw_world_Y, -raw_world_Z]",
         "board_size_mm": [board_width, board_height],
         "cameras": camera_report,
     }
@@ -578,12 +749,14 @@ def main() -> None:
     args.out_dir.mkdir(parents=True, exist_ok=True)
     hand_3d_path = args.out_dir / f"{stem}_3d_handpose_{suffix}.png"
     clean_hand_render_path = args.out_dir / f"{stem}_clean_3d_handpose_render_{suffix}.png"
+    interactive_hand_html_path = args.out_dir / f"{stem}_interactive_3d_handpose_{suffix}.html"
     full_scene_3d_path = args.out_dir / f"{stem}_full_3d_scene_z_up_{suffix}.png"
     comparison_2d_path = args.out_dir / f"{stem}_2d_pose_comparison_{suffix}.png"
     comparison_json_path = args.out_dir / f"{stem}_pose_comparison_{suffix}.json"
 
     save_3d_handpose(hand_3d_path, tri_points, keypoint_names, edges, args.combo)
     save_clean_handpose_render(clean_hand_render_path, tri_points, keypoint_names, edges, args.combo)
+    save_interactive_handpose_html(interactive_hand_html_path, tri_points, keypoint_names, edges, args.combo)
     full_scene = save_full_3d_scene(
         full_scene_3d_path,
         tri_points,
@@ -612,6 +785,7 @@ def main() -> None:
         "generated_files": {
             "handpose_3d": str(hand_3d_path),
             "clean_handpose_3d_render": str(clean_hand_render_path),
+            "interactive_handpose_3d": str(interactive_hand_html_path),
             "full_scene_3d_z_up": str(full_scene_3d_path),
             "pose_2d_comparison": str(comparison_2d_path),
         },